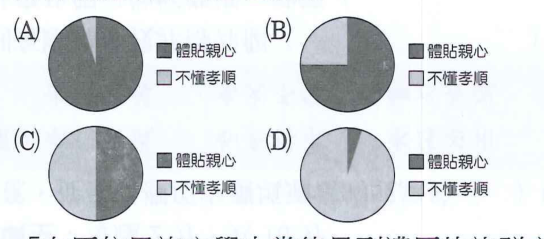
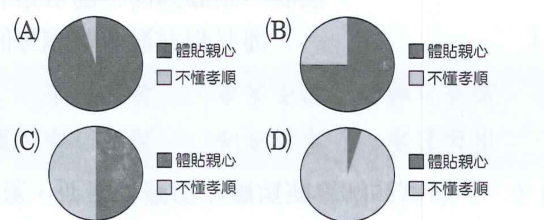
國文二上A卷第1～16回全部完成；圓餅圖題改用圖(A)～(D)選項；更新CLAUDE.md
Claude-Session: https://claude.ai/code/session_01TfENbN5U2AbXjRnzcx4nt4

diff --git a/hanlin-chinese-g8-1/test10.html b/hanlin-chinese-g8-1/test10.html
@@ -584,10 +584,10 @@ const DATA = {
         "q": "爺爺針對「啃老族」的新聞報導，感慨地說：「真正能體貼親心的孩子有如鳳毛麟角般啊！」下列圓餅圖何者最能表示出這種現象？",
         "image": "images/test10/b4pie.png",
         "options": [
-          "圖(A)：「體貼親心」約占全部的九成以上，「不懂孝順」只占一小片",
-          "圖(B)：「體貼親心」約占四分之三，「不懂孝順」約占四分之一",
-          "圖(C)：「體貼親心」與「不懂孝順」各占一半",
-          "圖(D)：「體貼親心」只占一小片，「不懂孝順」約占全部的九成以上"
+          "圖(A)",
+          "圖(B)",
+          "圖(C)",
+          "圖(D)"
         ],
         "correct": 3
       },

diff --git a/tools/hanlin-g8-1-build/chidata/t10.py b/tools/hanlin-g8-1-build/chidata/t10.py
@@ -1,6 +1,6 @@
 META = dict(n=10, pages=(19, 20))
 IDIOMS = ["水到渠成", "如魚得水", "水落石出", "出水芙蓉", "水火不容", "細水長流"]
-CROPS = [("b4pie", 20, "L", (240, 1455, 880, 1735))]
+CROPS = [("b4pie", 20, "L", (240, 1455, 880, 1712))]
 SECTIONS = [
   dict(type="fill", title="A部分　一、國字注音", meta="每字1分，共10分",
        note="「」裡是國字的寫注音，是注音的寫國字。注音的一聲可以不標。", placeholder="注音或國字", items=[
@@ -56,7 +56,7 @@ SECTIONS = [
     dict(q="「『別人能，我不能』，是當然現象。一點都不用覺得自卑，更不必認為丟臉。聰明才智固然叫人羨慕，平庸魯鈍也是福氣。」此段話的涵義為何？", options=["要懂得彼此尊重和包容", "不要成為愛表現，卻無實力的庸才", "做人千萬不要妄自菲薄", "要努力累積自己的實力"], correct=2),
     dict(q="「天下父母都該當豁達的弓箭手，只管負責將弦張緊、將弓拉滿，當箭離弦疾飛，就放下心，讓它自己決定適當的落點。子女，就是迎向前程、尋找自己落點的箭。」根據上文，父母應扮演下列何種角色？", options=["完全主導孩子的未來", "放手不管孩子的成長", "替孩子去除各種障礙", "適時放手讓孩子去飛"], correct=3),
     dict(q="爺爺針對「啃老族」的新聞報導，感慨地說：「真正能體貼親心的孩子有如鳳毛麟角般啊！」下列圓餅圖何者最能表示出這種現象？", image="images/t/b4pie.png",
-         options=["圖(A)：「體貼親心」約占全部的九成以上，「不懂孝順」只占一小片", "圖(B)：「體貼親心」約占四分之三，「不懂孝順」約占四分之一", "圖(C)：「體貼親心」與「不懂孝順」各占一半", "圖(D)：「體貼親心」只占一小片，「不懂孝順」約占全部的九成以上"], correct=3),
+         options=["圖(A)", "圖(B)", "圖(C)", "圖(D)"], correct=3),
     dict(q="「在原住民族文學中常能見到濃厚的族群文化，看見大量以山海作為背景的作品，不只描寫傳統文化，紀錄原本山海間的生活，並寄託強烈回鄉色彩，也在創作中抒發社會長年對於原住民族的打壓迫害，以筆對抗社會的不公，同時書寫對於自身身分認同的矛盾。」在原住民族文學中，<b>無法</b>看到下列何種內容？", options=["歲時祭典的熱鬧", "都市原住民族的遭遇", "對於自我的懷疑", "讚許政府原住民族政策"], correct=3),
     dict(q="「我以有情的心來面對萬物，而萬物自然回報我以有情。」此句話展現的情懷與下列何者最相近？", options=["我見青山多嫵媚，料青山見我應如是", "春風又綠江南岸，明月何時照我還", "落紅不是無情物，化作春泥更護花", "勸君更進一杯酒，西出陽關無故人"], correct=0),
     dict(q="「在泰雅族的習俗當中，紋面代表成年及其成就的標記。男子需要經過出草獵首的洗禮，女子則要熟稔織布技巧，才有資格紋面。男子一向紋在上額和下巴；女子則是上額及兩頰。」根據以上與「紋面」相關的內容，<b>無法</b>得知下列哪項訊息？", options=["紋面意義", "紋面位置", "紋面資格", "紋面方式"], correct=3),

diff --git a/CLAUDE.md b/CLAUDE.md
@@ -82,7 +82,19 @@
   **不用再選學生了（使用者 2026-10-04）**：右下角的下拉選單拿掉，改顯示「登入者：XXX」；「送出成績」自動帶登入者（localStorage 的 `quizStudentName`，由 points.js 的 PIN 關卡寫入）回傳試算表與點數；沒登入會提示先登入；家長（PARENT）測試只記點數的測試存摺、不寫進成績單。規則同其他網站：每題 1 點、同一份考卷每天第一次才算、每天上限 50 點。
   沒登入的人會先看到「你是誰？」關卡。已用社會地理第 1 回測過（stub 掉真正的送出）：回報的名字、標題、答對／總題數都正確。
 
+### 2026-10-08（手機雲端版）
+- **翰林二上國文 A 卷第 1～16 回完成**，取代原本 Gemini 做的版本（舊版只有「第1套・A卷／B卷／C卷」三張卡片，題目也不是出自原卷，`hanlin-chinese-g8-1-a.html` 已刪除）。
+  - 目錄頁 `hanlin-chinese-g8-1.html` 改成和社會科（地理）一樣：「第N回・第N課／課名」＋ A卷／B卷／C卷 按鈕（B、C 卷還沒做，按鈕是灰的）。
+  - 測驗頁 `hanlin-chinese-g8-1/test1~16.html`，版型沿用社會科測驗頁（`tools/hanlin-g8-1-build/tpl_chinese.html`）。
+  - 每回的範圍：第 1～3 回＝第一～三課，第 4 回＝第一～三課複習，第 5～7 回＝第四～六課，第 8 回＝複習，第 9～12 回＝第七～十課，第 13 回＝複習，第 14～16 回＝自學選文一～三。第 N 回＝PDF 第 2N-1、2N 頁。
+  - 題型：注音國字、改錯（`fill`，自動批改：去掉空白標點後比對，注音一聲可不標；改錯是依序寫出改正後的字）；解釋（`explain`，寫在格子裡，送出後顯示參考答案，**不計分**）；成語填空（做成選擇題，選項是參考選項）；基礎題／進階題（`mc`）；閱讀測驗／題組（`reading`）。
+  - 原卷是掃描檔（PDF 沒有文字），題目是看圖逐題打字的；答案全部照 `PDF-RAW-DATA/Chinese/hanlin/hanlin-G8-1/` 的 A 卷簡答。
+  - 少數地方簡答和題目用字不同（例如第 11 回改錯「勘／堪」、第 12 回「憤／忿」、第 7 回羽「翮」ㄍㄜˊ／ㄏㄜˊ），兩種寫法都算對。
+  - 16 頁都驗證過：每題的官方答案都判為正確、沒有 JS 錯誤、圖片都有載入、可以送出。
+  - 產生方式：改 `tools/hanlin-g8-1-build/chidata/tNN.py` → `python gen_chinese.py`（路徑是相對路徑，任何電腦都能跑；有附圖的回才需要 pymupdf）。B、C 卷的資料放 `chidataB/`、`chidataC/`，檔名一樣，產生 `testNb.html`、`testNc.html`。
+
 ### 待辦／注意
 - 以上變更要在 GitHub Desktop 裡 Commit + Push，換電腦後先 Pull。
 - 尚未製作：翰林二上數學網頁（原始檔已放進 `PDF-RAW-DATA/MATH/hanlin/hanlin-g8-1/`）。另外康軒數學 K 卷只在 OneDrive 裡，沒有放進專案。
+- 國文二上（翰林）B、C 卷還沒做（原始檔在 `PDF-RAW-DATA/Chinese/hanlin/hanlin-G8-1/`）。
 - 學生名單不再寫在 `sync.js`：改由點數存摺的登入帳號決定（家長在「帳號管理」建立）。
